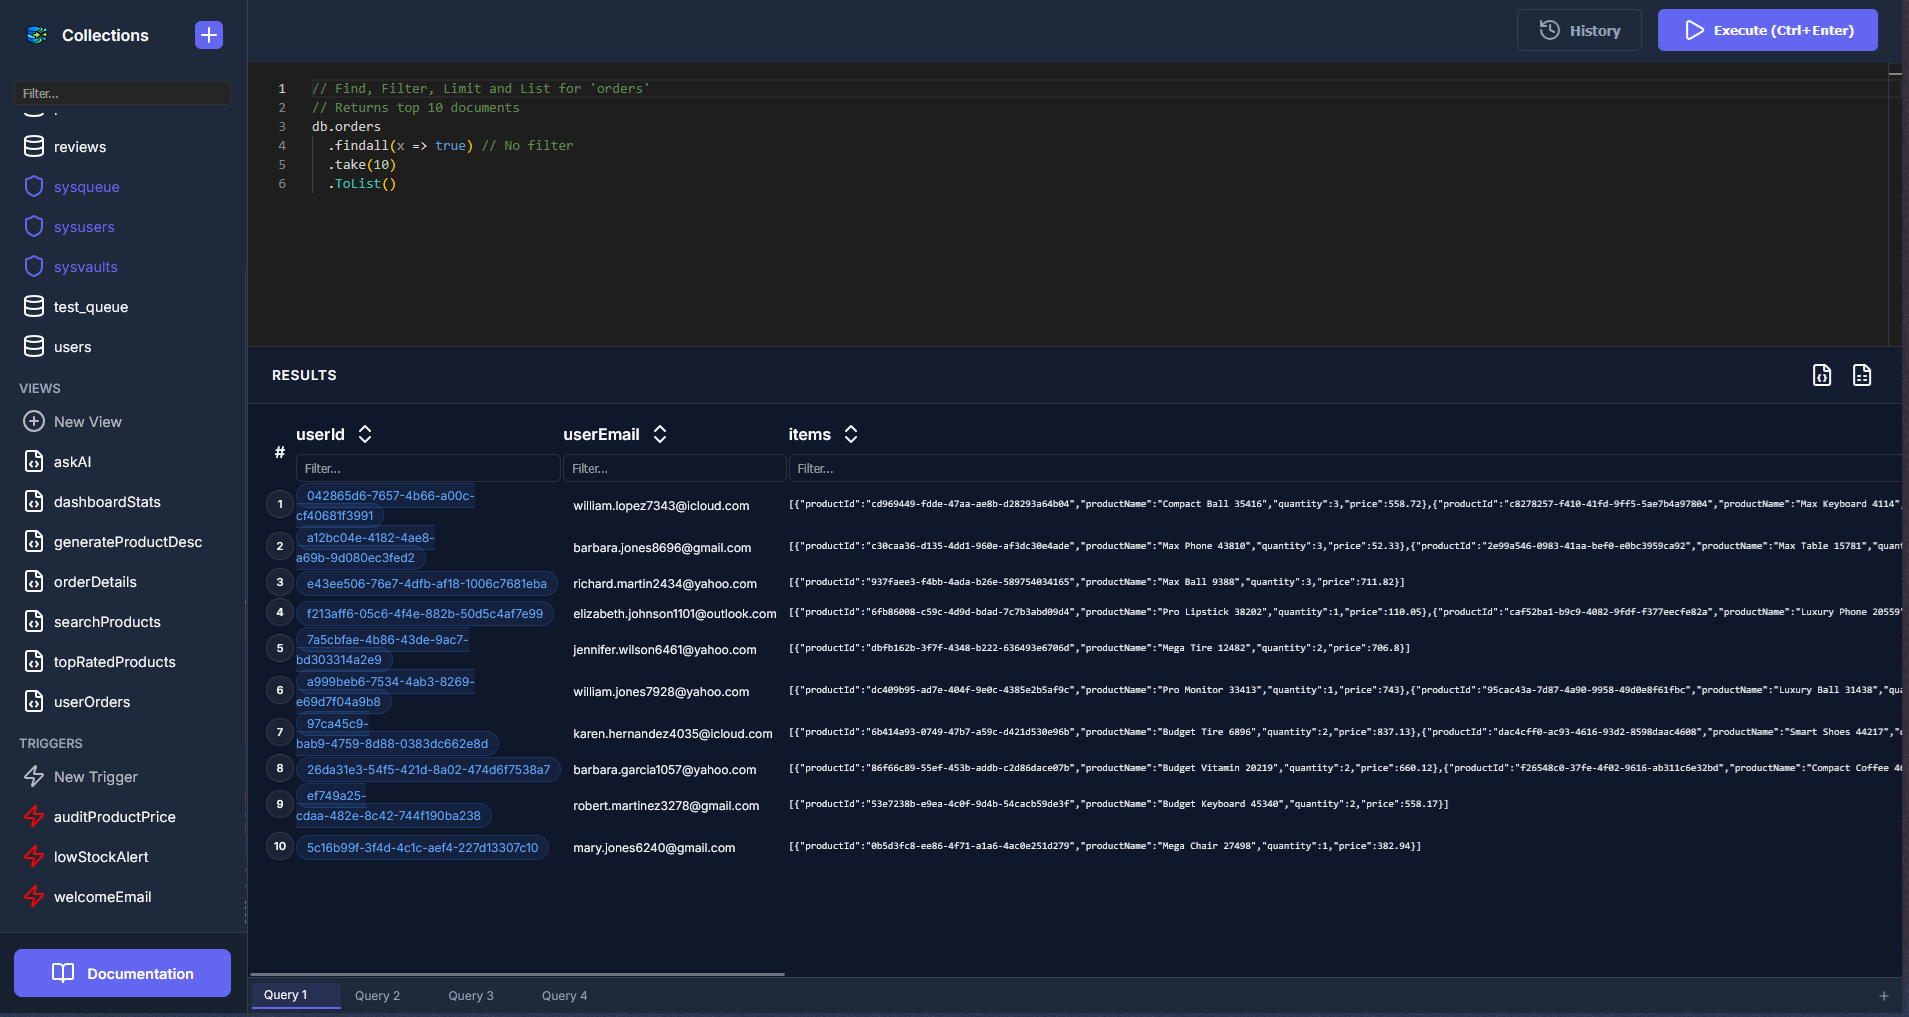
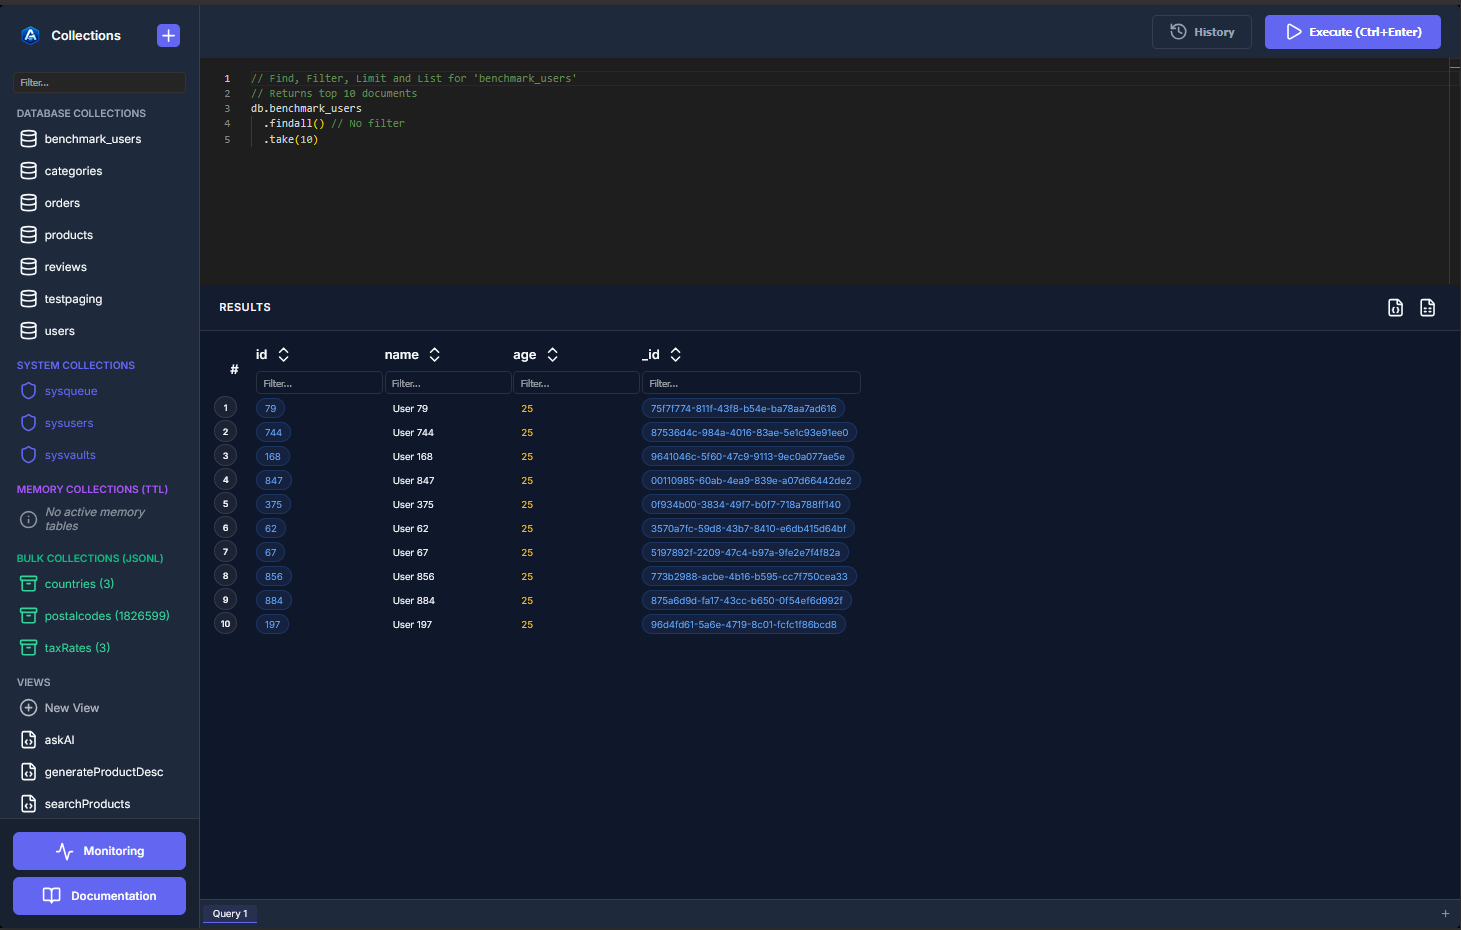
sensitive info cleanup preparation

Changed region(s): [[0.0, 0.0, 1.0, 1.0]]

diff --git a/Program.cs b/Program.cs
@@ -3,6 +3,8 @@ using Microsoft.AspNetCore.Mvc;
 using System.Text;
 using System.Diagnostics;
 using AxarDB;
+using AxarDB.Core;
+using AxarDB.Diagnostics;
 using AxarDB.Logging;
 
 // Ensure Console Output is UTF8
@@ -288,7 +290,7 @@ app.MapPost("/query", async (HttpContext context) =>
              } catch {}
         }
     
-        var scriptContext = new AxarDB.ScriptContext 
+        var scriptContext = new ScriptContext 
         { 
             IpAddress = context.Connection.RemoteIpAddress?.ToString() ?? "unknown",
             User = user,

diff --git a/Diagnostics/MemoryTest.cs b/Diagnostics/MemoryTest.cs
@@ -7,8 +7,11 @@ using System.Linq;
 using System.Collections.Generic;
 using System;
 using System.IO;
+using AxarDB.Core;
 
-public static class MemoryTest
+namespace AxarDB.Diagnostics
+{
+    public static class MemoryTest
 {
     public static void Run()
     {
@@ -81,4 +84,5 @@ public static class MemoryTest
         
         Console.WriteLine("Test Finished.");
     }
+}
 }

diff --git a/Diagnostics/Benchmark.cs b/Diagnostics/Benchmark.cs
@@ -1,7 +1,10 @@
 using System.Diagnostics;
 using AxarDB;
+using AxarDB.Core;
 
-public static class Benchmark
+namespace AxarDB.Diagnostics
+{
+    public static class Benchmark
 {
     public static void Run()
     {
@@ -59,4 +62,5 @@ public static class Benchmark
             Environment.Exit(0);
         }
     }
+}
 }

diff --git a/BackgroundServices/QueueProcessor.cs b/BackgroundServices/QueueProcessor.cs
@@ -6,6 +6,7 @@ using System.Threading;
 using System.Threading.Tasks;
 using System.IO;
 using AxarDB;
+using AxarDB.Core;
 using AxarDB.Definitions;
 
 namespace AxarDB.BackgroundServices

diff --git a/Core/ResultSet.cs b/Core/ResultSet.cs
@@ -1,7 +1,7 @@
 using AxarDB.Wrappers;
 using System.Collections;
 
-namespace AxarDB
+namespace AxarDB.Core
 {
     public class ResultSet : IEnumerable<DocumentWrapper>
     {

diff --git a/Core/DatabaseEngine.cs b/Core/DatabaseEngine.cs
@@ -10,7 +10,7 @@ using Newtonsoft.Json;
 using MySqlConnector;
 using Npgsql;
 
-namespace AxarDB
+namespace AxarDB.Core
 {
     public class DatabaseEngine
     {

diff --git a/Bridges/LogCollectionBridge.cs b/Bridges/LogCollectionBridge.cs
@@ -5,6 +5,7 @@ using System.Collections.Generic;
 using System.IO;
 using System.Linq;
 using AxarDB.Wrappers;
+using AxarDB.Core;
 
 namespace AxarDB.Bridges
 {

diff --git a/Bridges/CollectionBridge.cs b/Bridges/CollectionBridge.cs
@@ -2,6 +2,7 @@ using Jint;
 using Jint.Native;
 using AxarDB.Definitions;
 using AxarDB.Wrappers;
+using AxarDB.Core;
 
 namespace AxarDB.Bridges
 {

diff --git a/Bridges/JoinCollectionBridge.cs b/Bridges/JoinCollectionBridge.cs
@@ -2,6 +2,7 @@ using AxarDB.Definitions;
 using Jint;
 using Jint.Native;
 using AxarDB.Wrappers;
+using AxarDB.Core;
 
 namespace AxarDB.Bridges
 {

diff --git a/Bridges/AxarDBBridge.cs b/Bridges/AxarDBBridge.cs
@@ -1,5 +1,6 @@
 using System.Dynamic;
 using AxarDB.Definitions;
+using AxarDB.Core;
 
 namespace AxarDB.Bridges
 {

diff --git a/Core/ScriptContext.cs b/Core/ScriptContext.cs
@@ -1,4 +1,4 @@
-namespace AxarDB
+namespace AxarDB.Core
 {
     public struct ScriptContext
     {

diff --git a/release.md b/release.md
@@ -25,10 +25,3 @@ This release introduces grouping of system collections in the management console
 - Direct deletion of system collections via the backend is blocked.
 - Any calls to delete a collection starting with `sys` will throw an error, preventing the loss of vital system structure and data.
 
----
-
-## 🛠 Components Impacted
-
-- **[Collection.cs](file:///c:/Users/meto2/Documents/Github/AxarDB/Definitions/Collection.cs)**: Added `ValidateSystemCollectionStructure` method and integrated it into the `Insert` flow.
-- **[DatabaseEngine.cs](file:///c:/Users/meto2/Documents/Github/AxarDB/DatabaseEngine.cs)**: Updated `DeleteCollection` to throw an error for system collections.
-- **[app.js](file:///c:/Users/meto2/Documents/Github/AxarDB/wwwroot/js/app.js)**: Grouped collections starting with `sys` in a new section in the sidebar.
